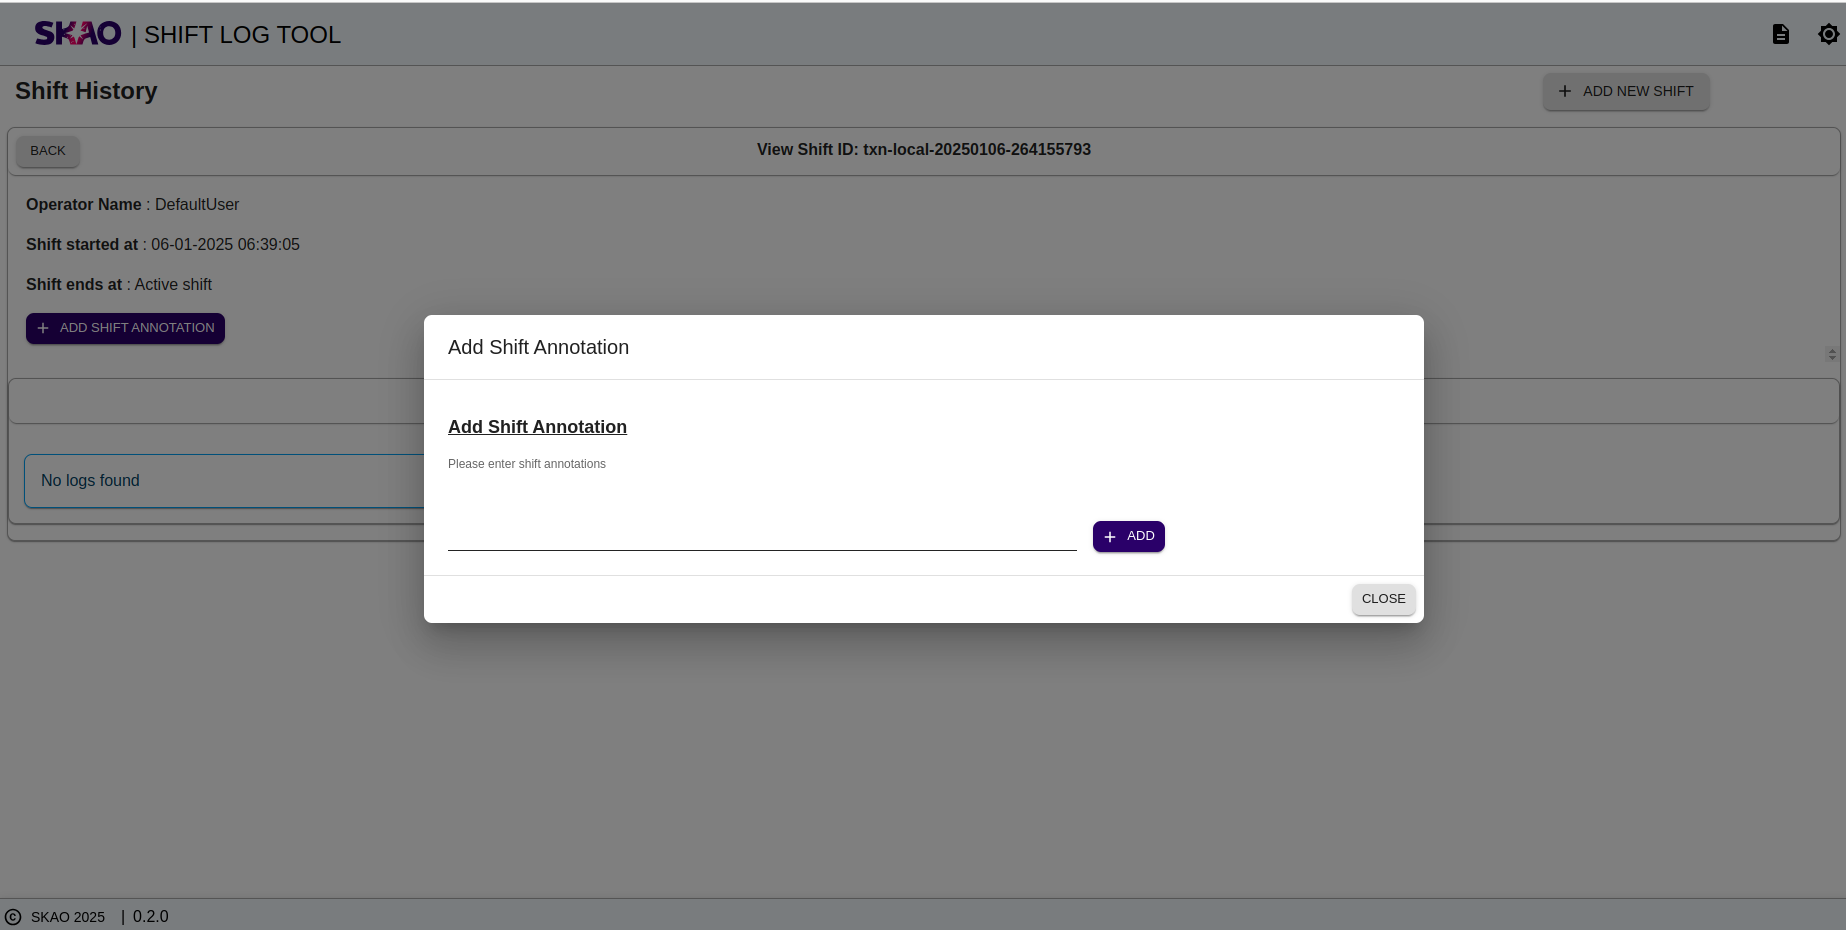
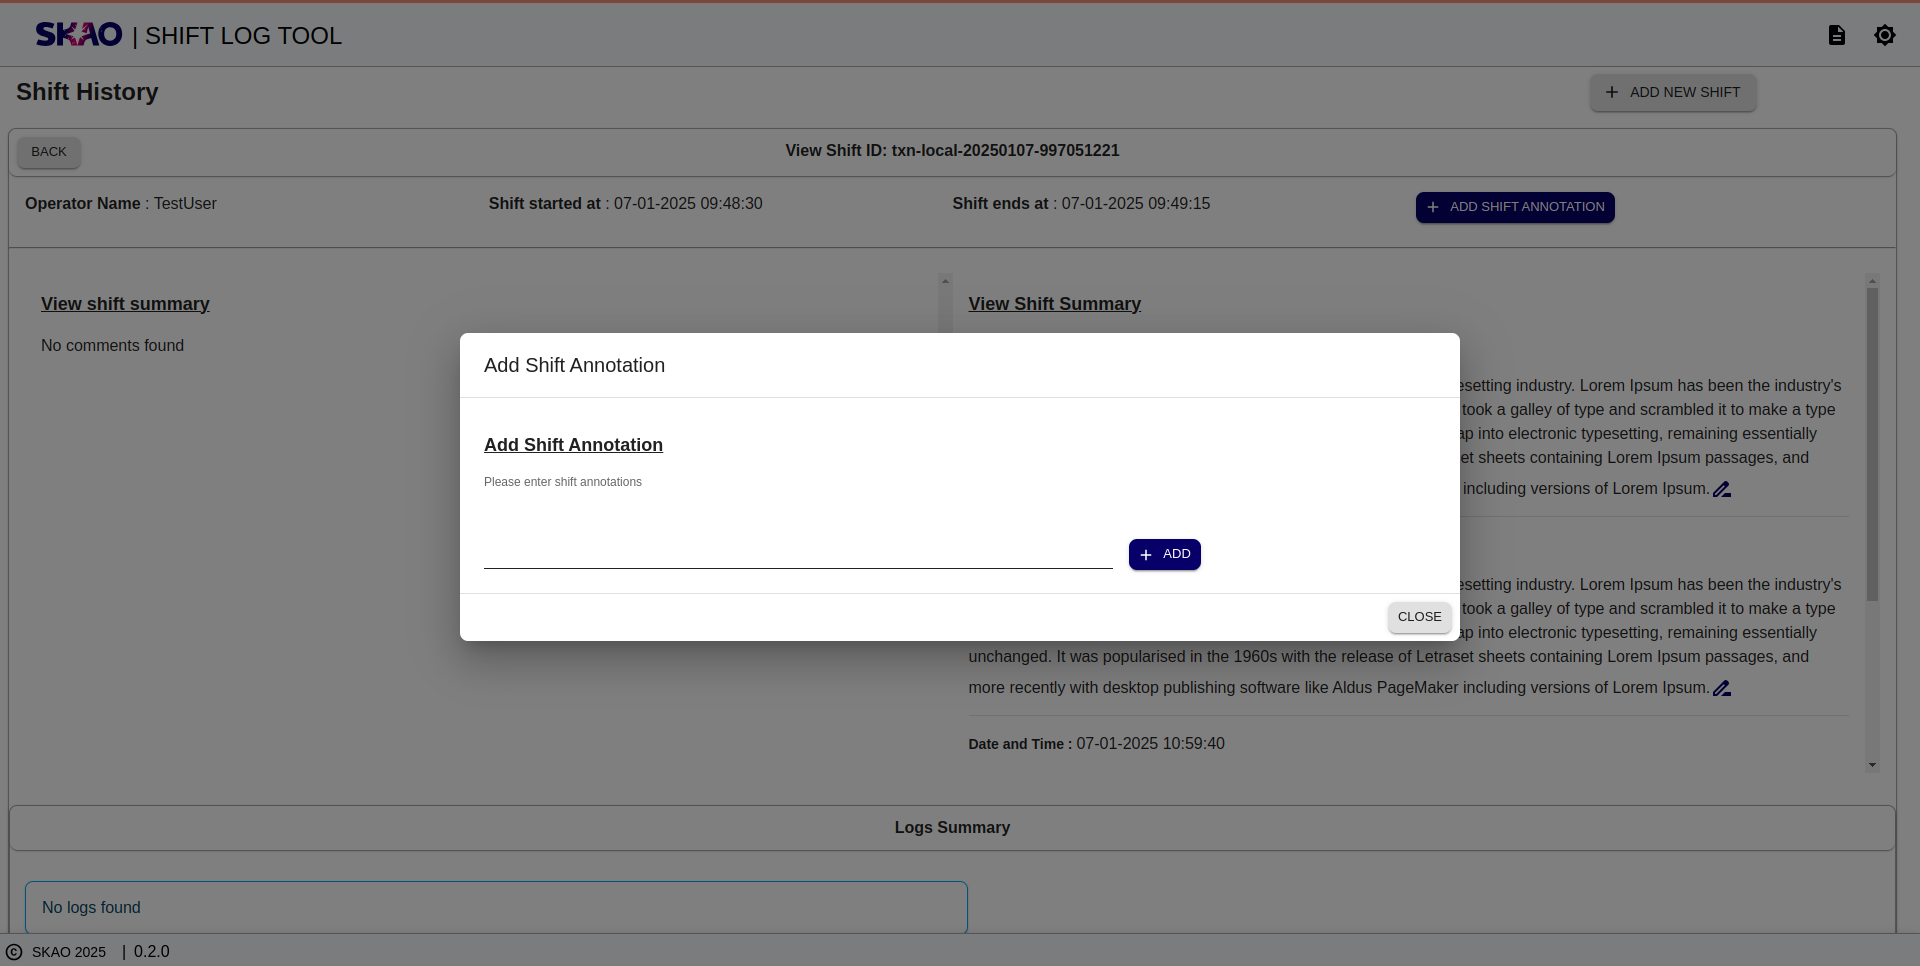
NAK-1080 fixed comment issue in View Page

diff --git a/src/pages/ShiftHistoryPage/ViewShiftData/ViewShiftData.tsx b/src/pages/ShiftHistoryPage/ViewShiftData/ViewShiftData.tsx
@@ -1,5 +1,6 @@
 import {
   Box,
+  Chip,
   Dialog,
   DialogActions,
   DialogContent,
@@ -22,6 +23,7 @@ import {
 import React, { useEffect, useState } from 'react';
 import { useTranslation } from 'react-i18next';
 import AddIcon from '@mui/icons-material/Add';
+import ImageDisplayComponent from '../../../components/ImageDisplayComponent/ImageDisplayComponent';
 import DriveFileRenameOutlineIcon from '@mui/icons-material/DriveFileRenameOutline';
 import apiService from '../../../services/apis';
 import { createShiftAnnotationPath } from '../../../utils/api_constants';
@@ -30,6 +32,8 @@ import { toUTCDateTimeFormat } from '../../../utils/constants';
 
 const ViewShiftData = ({ data }) => {
   const { t } = useTranslation('translations');
+  const [images, setImages] = useState([]);
+  const [openViewImageModal, setOpenViewImageModal] = useState(false);
 
   const [dataDetails, setShiftAnnotationData] = useState(null);
   const [shiftAnnotationValue, setShiftAnnotation] = useState('');
@@ -75,6 +79,35 @@ const ViewShiftData = ({ data }) => {
     setOpenSummaryModal(true);
     setShiftAnnotationUpdate(true);
     setShiftAnnotation(shiftAnnotationItem.annotation);
+  };
+
+  const displayShiftComments = (shiftCommentItem) => (
+    <>
+      <span data-testid="shiftCommentsHistory" style={{ fontWeight: 700, fontSize: '14px' }}>
+        {t('label.comments')}:{' '}
+      </span>{' '}
+      <span>{shiftCommentItem.comment}</span>
+    </>
+  );
+
+  const fetchImage = async (shiftCommentId) => {
+    setImages([]);
+    const path = `shift_comment/download_images/${shiftCommentId}`;
+    const result = await apiService.getImage(path);
+    if (result.status === 200) {
+      setImages(result && result.data && result.data[0] ? result.data[0] : []);
+    } else {
+      setImages([{ isEmpty: true }]);
+    }
+  };
+
+  const handleOpenImage = (shiftCommentId) => {
+    setOpenViewImageModal(true);
+    fetchImage(shiftCommentId);
+  };
+
+  const handleViewImageClose = () => {
+    setOpenViewImageModal(false);
   };
 
   const displayShiftAnnotations = (shiftAnnotationItem) => (
@@ -154,90 +187,203 @@ const ViewShiftData = ({ data }) => {
 
   return (
     <Box sx={{ paddingBottom: 2 }}>
-      <Grid container spacing={2} justifyContent="left">
-        <Grid item xs={12} sm={12} md={4}>
-          <Grid style={{ margin: 2 }} container spacing={2} justifyContent="left">
-            <Grid item xs={12} sm={12} md={12}>
-              <span id="operatorName" style={{ fontWeight: 'bold', alignItems: 'center' }}>
-                {t('label.operatorName')}{' '}
-              </span>
-              <span> : {data.shift_operator}</span>
-            </Grid>
-            <Grid item xs={12} sm={12} md={12}>
-              <span id="shiftStart" style={{ fontWeight: 'bold' }}>
-                {t('label.shiftStartedAt')}{' '}
-              </span>
-              <span>: {data.shift_start ? toUTCDateTimeFormat(data.shift_start) : 'NA'}</span>
-            </Grid>
-            <Grid item xs={12} sm={12} md={12}>
-              <span id="shiftEnd" style={{ fontWeight: 'bold', alignItems: 'center' }}>
-                {t('label.shiftEndsAt')}{' '}
-              </span>
-              <span>: {data.shift_end ? toUTCDateTimeFormat(data.shift_end) : 'Active shift'}</span>
-            </Grid>
-            <Grid item xs={12} sm={12} md={12}>
-              <Button
-                size={ButtonSizeTypes.Small}
-                icon={<AddIcon />}
-                ariaDescription="Button for submitting annotation"
-                label={t('label.addShiftAnnotations')}
-                testId="addShiftAnnotations"
-                onClick={handleSetOpenSummaryModal}
-                variant={ButtonVariantTypes.Contained}
-                color={ButtonColorTypes.Secondary}
-              />
+      <Dialog
+        aria-label={t('ariaLabel.dialog')}
+        data-testid="dialogStatus"
+        sx={{
+          '& .MuiDialog-container': {
+            '& .MuiPaper-root': {
+              width: '100%',
+              maxWidth: '1000px'
+            }
+          }
+        }}
+        open={openViewImageModal}
+        onClose={handleViewImageClose}
+        aria-labelledby="responsive-dialog-title"
+      >
+        <DialogTitle>{t('label.viewImages')}</DialogTitle>
+        <DialogContent dividers>
+          {images ? <ImageDisplayComponent images={images} /> : <p>{t('label.noImageFound')}</p>}
+        </DialogContent>
+        <DialogActions>
+          <Button
+            size={ButtonSizeTypes.Small}
+            color={ButtonColorTypes.Inherit}
+            variant={ButtonVariantTypes.Contained}
+            testId="statusClose"
+            label={t('label.close')}
+            onClick={handleViewImageClose}
+            toolTip={t('label.close')}
+          />
+        </DialogActions>
+      </Dialog>
+      <Grid container sx={{ padding: 2 }} justifyContent="left">
+        <Grid item xs={12} sm={12} md={3}>
+          <span id="operatorName" style={{ fontWeight: 'bold', alignItems: 'center' }}>
+            {t('label.operatorName')}{' '}
+          </span>
+          <span> : {data.shift_operator}</span>
+        </Grid>
+        <Grid item xs={12} sm={12} md={3}>
+          <span id="shiftStart" style={{ fontWeight: 'bold' }}>
+            {t('label.shiftStartedAt')}{' '}
+          </span>
+          <span>: {data.shift_start ? toUTCDateTimeFormat(data.shift_start) : 'NA'}</span>
+        </Grid>
+        <Grid item xs={12} sm={12} md={3}>
+          <span id="shiftEnd" style={{ fontWeight: 'bold', alignItems: 'center' }}>
+            {t('label.shiftEndsAt')}{' '}
+          </span>
+          <span>: {data.shift_end ? toUTCDateTimeFormat(data.shift_end) : 'Active shift'}</span>
+        </Grid>
+        <Grid item xs={12} sm={12} md={3}>
+          <Button
+            size={ButtonSizeTypes.Small}
+            icon={<AddIcon />}
+            ariaDescription="Button for submitting annotation"
+            label={t('label.addShiftAnnotations')}
+            testId="addShiftAnnotations"
+            onClick={handleSetOpenSummaryModal}
+            variant={ButtonVariantTypes.Contained}
+            color={ButtonColorTypes.Secondary}
+          />
+        </Grid>
+      </Grid>
+      <hr />
+      <Grid container sx={{ padding: 2 }} justifyContent="left">
+        <Grid item xs={12} sm={12} md={6}>
+          <Grid item xs={12} sm={12} md={12}>
+            <Grid
+              container
+              sx={{ padding: 2, paddingTop: 0, maxHeight: '500px', overflowY: 'scroll' }}
+            >
+              <Grid item xs={12} sm={12} md={12}>
+                <div>
+                  <p
+                    data-testid="viewShiftCommentsHistory"
+                    style={{
+                      textDecoration: 'underline',
+                      fontWeight: 900,
+                      fontSize: '18px',
+                      marginBottom: 0
+                    }}
+                  >
+                    {t('label.viewShiftComments')}
+                  </p>
+                </div>
+                {data &&
+                  data.comments &&
+                  data.comments.length > 0 &&
+                  data.comments.map((shiftCommentItem, shiftCommentIndex) => (
+                    <div key={shiftCommentItem.id}>
+                      <Grid
+                        container
+                        justifyContent="start"
+                        data-testid="viewShiftCommentsHistoryData"
+                      >
+                        <Grid item xs={12} sm={12} md={9}>
+                          <p data-testid="commentedAtHistory">
+                            <span style={{ fontWeight: 700, fontSize: '14px' }}>
+                              {t('label.commentedAt')} :
+                            </span>{' '}
+                            <span>
+                              {shiftCommentItem &&
+                              shiftCommentItem.metadata &&
+                              shiftCommentItem.metadata.created_on
+                                ? toUTCDateTimeFormat(shiftCommentItem.metadata.created_on)
+                                : 'NA'}
+                            </span>
+                          </p>
+                        </Grid>
+                        <Grid item xs={12} sm={12} md={3}>
+                          <Chip
+                            size="small"
+                            color="secondary"
+                            style={{
+                              cursor: 'pointer',
+                              marginTop: '10px'
+                            }}
+                            data-testid="viewShiftHistoryImagesHistory"
+                            onClick={() => handleOpenImage(shiftCommentItem.id)}
+                            label={`${t('label.viewImages')} (${shiftCommentItem.image ? shiftCommentItem.image.length : 0})`}
+                            variant="outlined"
+                          />
+                        </Grid>
+                      </Grid>
+                      <Grid container justifyContent="start">
+                        <Grid item xs={12} sm={12} md={12}>
+                          {shiftCommentItem &&
+                            shiftCommentItem.comment &&
+                            displayShiftComments(shiftCommentItem)}
+                        </Grid>
+                      </Grid>
+
+                      {shiftCommentIndex !== data.comments.length - 1 && (
+                        <Divider style={{ marginTop: '15px' }} />
+                      )}
+                    </div>
+                  ))}
+                {data && data.comments && data.comments.length === 0 && (
+                  <p>{t('label.noCommentsFound')}</p>
+                )}
+              </Grid>
             </Grid>
           </Grid>
         </Grid>
-        <Grid item xs={12} sm={12} md={1} />
-      </Grid>
-      <Grid container sx={{ padding: 2, paddingTop: 0, maxHeight: '500px', overflowY: 'scroll' }}>
-        <Grid item xs={12} sm={12} md={12}>
-          {dataDetails && (
-            <p
-              data-testid="viewShiftAnnotations"
-              style={{
-                textDecoration: 'underline',
-                fontWeight: 900,
-                fontSize: '18px',
-                marginBottom: 0
-              }}
-            >
-              {t('label.viewShiftAnnotations')}
-            </p>
-          )}
-          {dataDetails &&
-            dataDetails.map((shiftAnnotationItem, shiftAnnotationIndex) => (
-              <div key={shiftAnnotationItem.id}>
-                <Grid container justifyContent="start">
-                  <Grid item xs={12} sm={12} md={4}>
-                    <p data-testid="AnnotatedAt">
-                      <span style={{ fontWeight: 700, fontSize: '14px' }}>
-                        {t('label.commentedAt')} :{' '}
-                      </span>{' '}
-                      <span>
+        <Grid item xs={12} sm={12} md={6}>
+          <Grid
+            container
+            sx={{ padding: 2, paddingTop: 0, maxHeight: '500px', overflowY: 'scroll' }}
+          >
+            <Grid item xs={12} sm={12} md={12}>
+              {dataDetails && (
+                <p
+                  data-testid="viewShiftAnnotations"
+                  style={{
+                    textDecoration: 'underline',
+                    fontWeight: 900,
+                    fontSize: '18px',
+                    marginBottom: 0
+                  }}
+                >
+                  {t('label.viewShiftAnnotations')}
+                </p>
+              )}
+              {dataDetails &&
+                dataDetails.map((shiftAnnotationItem, shiftAnnotationIndex) => (
+                  <div key={shiftAnnotationItem.id}>
+                    <Grid container justifyContent="start">
+                      <Grid item xs={12} sm={12} md={4}>
+                        <p data-testid="AnnotatedAt">
+                          <span style={{ fontWeight: 700, fontSize: '14px' }}>
+                            {t('label.commentedAt')} :{' '}
+                          </span>{' '}
+                          <span>
+                            {shiftAnnotationItem &&
+                            shiftAnnotationItem.metadata &&
+                            shiftAnnotationItem.metadata.created_on
+                              ? toUTCDateTimeFormat(shiftAnnotationItem.metadata.created_on)
+                              : 'NA'}
+                          </span>
+                        </p>
+                      </Grid>
+                    </Grid>
+                    <Grid container justifyContent="start">
+                      <Grid item xs={12} sm={12} md={12}>
                         {shiftAnnotationItem &&
-                        shiftAnnotationItem.metadata &&
-                        shiftAnnotationItem.metadata.created_on
-                          ? toUTCDateTimeFormat(shiftAnnotationItem.metadata.created_on)
-                          : 'NA'}
-                      </span>
-                    </p>
-                  </Grid>
-                </Grid>
-                <Grid container justifyContent="start">
-                  <Grid item xs={12} sm={12} md={12}>
-                    {shiftAnnotationItem &&
-                      shiftAnnotationItem.annotation &&
-                      displayShiftAnnotations(shiftAnnotationItem)}
-                  </Grid>
-                </Grid>
+                          shiftAnnotationItem.annotation &&
+                          displayShiftAnnotations(shiftAnnotationItem)}
+                      </Grid>
+                    </Grid>
 
-                {shiftAnnotationIndex !== dataDetails.length - 1 && (
-                  <Divider style={{ marginTop: '15px' }} />
-                )}
-              </div>
-            ))}
+                    {shiftAnnotationIndex !== dataDetails.length - 1 && (
+                      <Divider style={{ marginTop: '15px' }} />
+                    )}
+                  </div>
+                ))}
+            </Grid>
+          </Grid>
         </Grid>
       </Grid>
 
